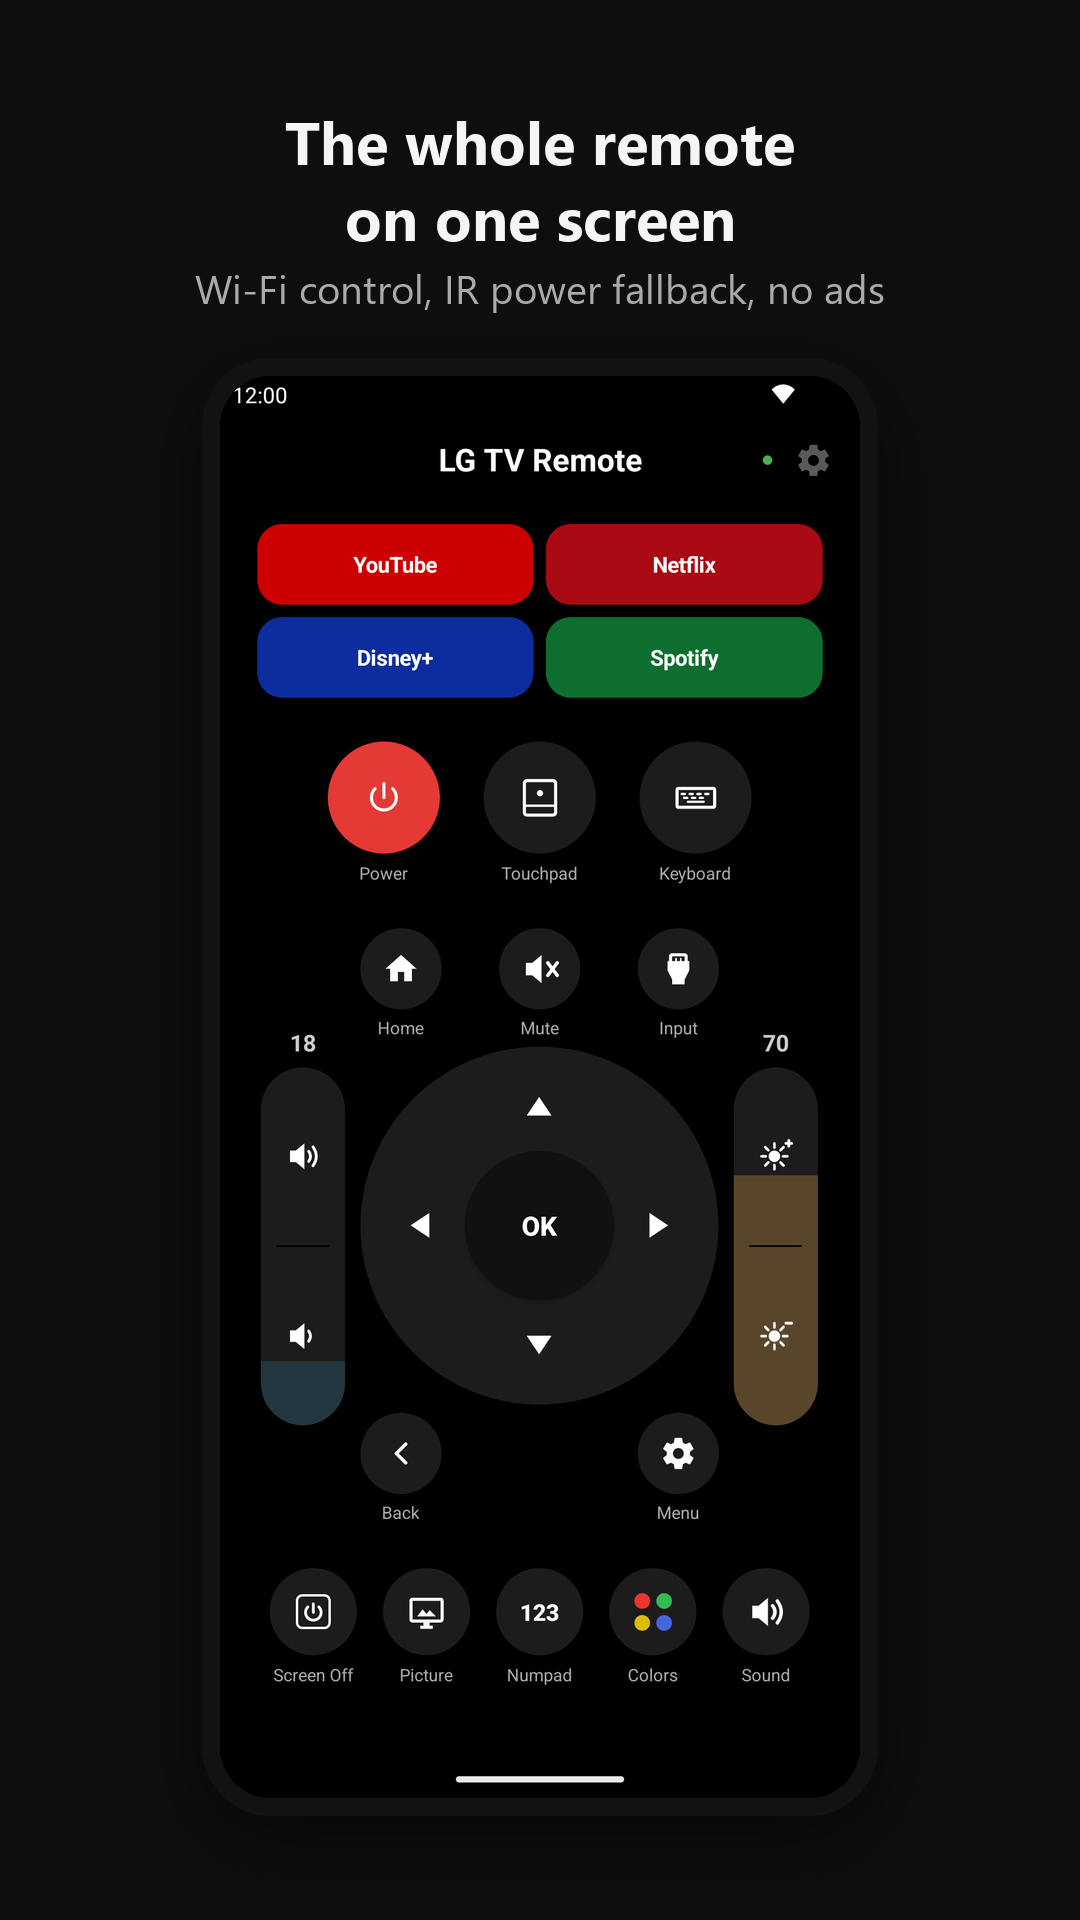
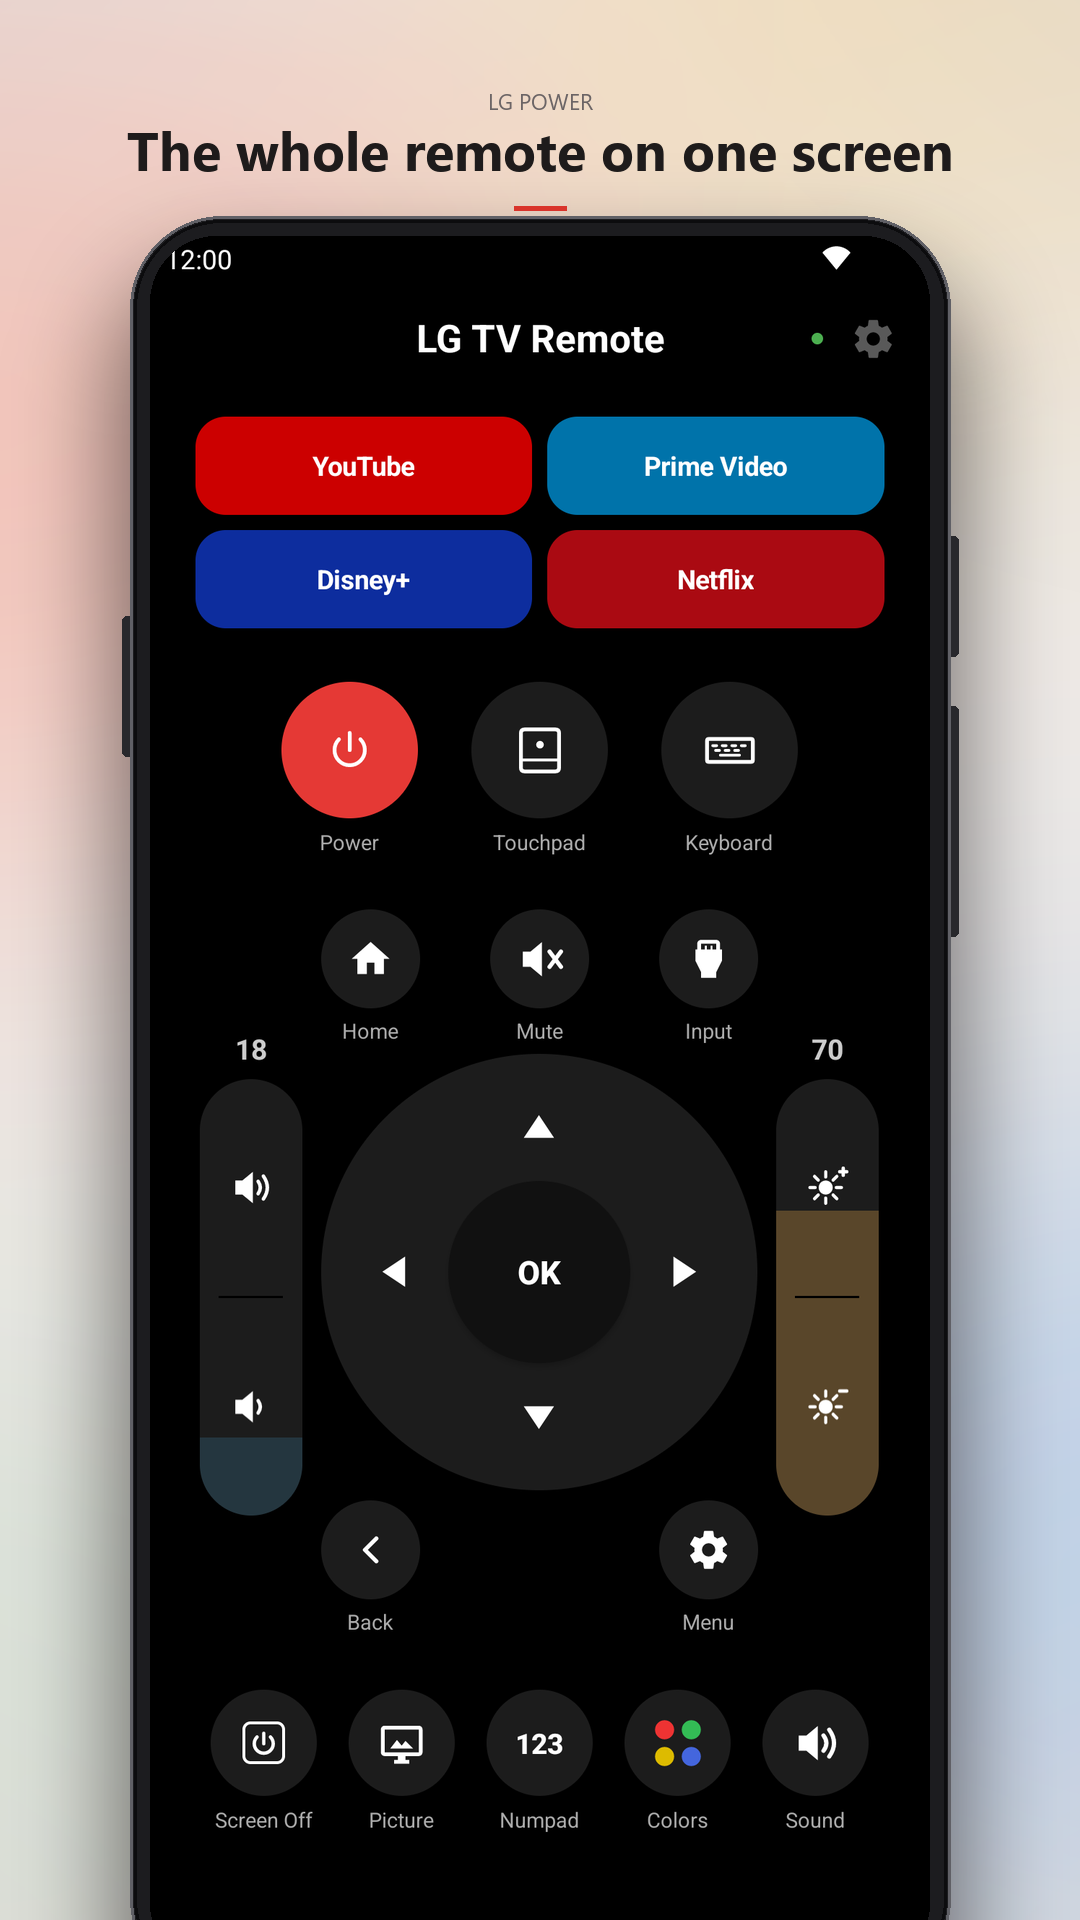
Play screenshots restyled to match the tour video
Pastel background, graphite bezel, one phone per frame, real shortcut
icons and the dark keyboard. _frame.py reuses the background and bezel
from tools/faketv/produce.py so the two stay in sync.

diff --git a/store/screenshots/_frame.py b/store/screenshots/_frame.py
@@ -1,93 +1,53 @@
-"""Compose raw 1080x2400 emulator captures into 1080x1920 Play screenshots.
+"""Compose raw 1080x2400 captures into 1080x1920 Play screenshots in the video's look:
+pastel background, graphite bezel, one big phone, caption with an accent underline.
 
-Usage: python frame.py <raw_dir> <out_dir>
-Reads <raw_dir>/captions.json: list of {out, images:[raw names], caption, sub, bg, fg}.
+Usage: python frame_v2.py <raw_dir> <out_dir>   (reads <raw_dir>/captions.json: [{out, image, caption, sub}])
 """
-import json, sys, os
-from PIL import Image, ImageDraw, ImageFont, ImageFilter
+import importlib.util, json, os, sys
+from PIL import Image, ImageDraw, ImageFont
 
-W, H = 1080, 1920
-FONT = r"C:\Windows\Fonts\segoeuib.ttf"
-FONT_SUB = r"C:\Windows\Fonts\segoeui.ttf"
-
-
-def rounded(img, radius):
-    mask = Image.new("L", img.size, 0)
-    ImageDraw.Draw(mask).rounded_rectangle([0, 0, img.size[0] - 1, img.size[1] - 1], radius, fill=255)
-    out = img.convert("RGBA")
-    out.putalpha(mask)
-    return out
+SC = os.path.dirname(os.path.abspath(__file__))
+ARGS = sys.argv[1:]
+spec = importlib.util.spec_from_file_location("produce", os.path.join(SC, "produce.py"))
+sys.argv = ["produce.py", os.path.join(SC, "tour_raw.mp4")]
+produce = importlib.util.module_from_spec(spec); spec.loader.exec_module(produce)
+W, H, PW, PH, PX, PY = produce.W, produce.H, produce.PW, produce.PH, produce.PX, produce.PY
+INK, MUTED, RED = (30, 27, 27), (107, 100, 101), (217, 52, 43)
 
 
-def phone(raw, target_w, radius=64, bezel_pad=22):
-    scale = target_w / raw.width
-    ph = int(raw.height * scale)
-    scr = raw.resize((target_w, ph), Image.LANCZOS)
-    bz = Image.new("RGBA", (target_w + 2 * bezel_pad, ph + 2 * bezel_pad), (0, 0, 0, 0))
-    ImageDraw.Draw(bz).rounded_rectangle([0, 0, bz.width - 1, bz.height - 1], radius + bezel_pad, fill=(18, 18, 20, 255))
-    scr = rounded(scr, radius)
-    bz.paste(scr, (bezel_pad, bezel_pad), scr)
-    return bz
+def font(bold, size):
+    return ImageFont.truetype(r"C:\Windows\Fonts\segoeuib.ttf" if bold else r"C:\Windows\Fonts\segoeui.ttf", size)
 
 
-def paste_with_shadow(canvas, im, x, y):
-    shadow = Image.new("RGBA", (im.width + 160, im.height + 160), (0, 0, 0, 0))
-    ImageDraw.Draw(shadow).rounded_rectangle([80, 100, 80 + im.width, 100 + im.height], 80, fill=(0, 0, 0, 120))
-    shadow = shadow.filter(ImageFilter.GaussianBlur(30))
-    canvas.paste(shadow, (x - 80, y - 80), shadow)
-    canvas.paste(im, (x, y), im)
+def build_static():
+    bg = os.path.join(SC, "prod_bg.png"); bz = os.path.join(SC, "prod_bezel.png"); mk = os.path.join(SC, "prod_mask.png")
+    produce.background(bg); produce.bezel(bz); produce.screen_mask(mk)
+    big = Image.open(bg).convert("RGB")
+    ox, oy = (produce.BW - W) // 2, (produce.BH - H) // 2
+    base = big.crop((ox, oy, ox + W, oy + H))
+    return base, Image.open(bz).convert("RGBA"), Image.open(mk).convert("L")
 
 
-def frame(spec, raw_dir, out_path):
-    bg, fg = tuple(spec["bg"]), tuple(spec["fg"])
-    canvas = Image.new("RGB", (W, H), bg)
+def frame(raw_path, caption, sub, out_path, base, bezel, mask, shift=0):
+    canvas = base.copy()
+    canvas.paste(bezel, (0, 0), bezel)
+    scr = Image.open(raw_path).convert("RGB").resize((PW, PH), Image.LANCZOS)
+    canvas.paste(scr, (PX, PY), mask)
     d = ImageDraw.Draw(canvas)
-    f1 = ImageFont.truetype(FONT, 60)
-    f2 = ImageFont.truetype(FONT_SUB, 40)
-    y = 100
-    for line in spec["caption"].split("\n"):
-        w = d.textlength(line, font=f1)
-        d.text(((W - w) / 2, y), line, font=f1, fill=fg)
-        y += 76
-    sub = spec.get("sub", "")
-    if sub:
-        w = d.textlength(sub, font=f2)
-        muted = tuple(int(c * 0.7 + (255 - c) * 0.0) if sum(bg) < 300 else int(c + (128 - c) * 0.5) for c in fg)
-        d.text(((W - w) / 2, y + 8), sub, font=f2, fill=muted)
-        y += 56
-    top = y + 50
-    raws = [Image.open(os.path.join(raw_dir, n + ".png")).convert("RGB") for n in spec["images"]]
-    if len(raws) == 1:
-        ph = phone(raws[0], 640, radius=50, bezel_pad=18)
-        paste_with_shadow(canvas, ph, (W - ph.width) // 2, top)
-    elif spec.get("layout") == "row":
-        # three phones side by side, no overlap, for screens whose content sits low
-        phones = [phone(r, 344, radius=32, bezel_pad=10) for r in raws]
-        gap = (W - sum(p.width for p in phones)) // 4
-        x = gap
-        ptop = top + max(0, (H - top - phones[0].height) // 2 - 60)
-        for p in phones:
-            paste_with_shadow(canvas, p, x, ptop)
-            x += p.width + gap
-    else:
-        # fan of three: middle one in front, sides tucked behind and lower
-        mid = phone(raws[1], 560, radius=44, bezel_pad=16)
-        side_l = phone(raws[0], 500, radius=40, bezel_pad=14)
-        side_r = phone(raws[2], 500, radius=40, bezel_pad=14)
-        paste_with_shadow(canvas, side_l, 20, top + 90)
-        paste_with_shadow(canvas, side_r, W - 20 - side_r.width, top + 90)
-        paste_with_shadow(canvas, mid, (W - mid.width) // 2, top)
+    f1, f0 = font(True, 54), font(False, 22)
+    w = d.textlength("LG POWER", font=f0); d.text(((W - w) / 2, 86), "LG POWER", font=f0, fill=MUTED)
+    w = d.textlength(caption, font=f1); d.text(((W - w) / 2, 112), caption, font=f1, fill=INK)
+    d.rectangle([(W - 52) / 2, 206, (W + 52) / 2, 210], fill=RED)
     canvas.save(out_path, optimize=True)
 
 
 def main(raw_dir, out_dir):
     os.makedirs(out_dir, exist_ok=True)
-    specs = json.load(open(os.path.join(raw_dir, "captions.json"), encoding="utf8"))
-    for spec in specs:
-        out = os.path.join(out_dir, spec["out"] + ".png")
-        frame(spec, raw_dir, out)
-        print("framed", spec["out"])
+    base, bezel, mask = build_static()
+    for spec_ in json.load(open(os.path.join(raw_dir, "captions.json"), encoding="utf8")):
+        frame(os.path.join(raw_dir, spec_["image"] + ".png"), spec_["caption"], spec_.get("sub", ""), os.path.join(out_dir, spec_["out"] + ".png"), base, bezel, mask)
+        print("framed", spec_["out"])
 
 
 if __name__ == "__main__":
-    main(sys.argv[1], sys.argv[2])
+    main(ARGS[0], ARGS[1])

diff --git a/store/listing-v2.md b/store/listing-v2.md
@@ -62,21 +62,20 @@ LG Power collects no data and has no servers. Your TV's address, MAC and pairing
 
 LG Power is an independent, unofficial app. It is not affiliated with, endorsed by or sponsored by LG Electronics. LG, webOS and Magic Remote are trademarks of LG Electronics. All other product names, logos and brands are property of their respective owners and are used for identification only.
 
-## Screenshots (8, 1080x1920 framed, caption on top)
+## Screenshots (8, 1080x1920, same look as the video)
 
-Final order, matching store/screenshots/:
-1. 01_remote: main remote, Dark, four shortcuts. "The whole remote on one screen"
-2. 02_keyboard: keyboard sheet with text. "Type into TV search with your keyboard"
-3. 03_touchpad: touchpad locked. "Hold Touchpad to lock a full-screen pad"
-4. 04_pickers: three phones in a row, input / picture / sound. "Input, picture and sound pickers"
-5. 05_numpad: numpad. "Channel numbers, guide, info and subtitles"
-6. 06_widgets: launcher home screen with the Power, Screen Off and OK widgets. "Widgets for Power, Screen Off and OK"
-7. 07_themes: three-phone fan, Monokai / Light / Nord. "Light, dark and six more themes"
-8. 08_service: service remote with the part-number footer and password row masked out. "Service remote over IR"
+Pastel background, graphite phone, one phone per frame, caption with a red underline. All captured with the real shortcut icons and the dark keyboard. Composer: store/screenshots/_frame.py (imports tools/faketv/produce.py for the background and bezel), captions in _captions.json.
 
-Spare: 09_colors_SPARE (colour row open), near-duplicate of the hero shot. Swap it in for 08 if the service remote feels too edgy for the listing.
+1. 01_remote: main remote, Dark. "The whole remote on one screen"
+2. 02_keyboard: keyboard sheet, dark Gboard. "Type into TV search"
+3. 03_touchpad: touchpad locked. "Hold Touchpad to lock a cursor pad"
+4. 04_pickers: picture mode picker. "Picture, sound and input pickers"
+5. 05_numpad: numpad. "Numpad, guide, info and subtitles"
+6. 06_widgets: launcher with the Power, Screen Off and OK widgets. "Widgets for Power, Screen Off and OK"
+7. 07_themes: main remote, Light. "Light, dark and six more themes"
+8. 08_service: service remote, part number and password masked. "Service remote over IR"
 
-Known compromise: shortcut pills on the main screen carry app colours taken from the TV's own icons (YouTube red, Netflix red, Disney+ blue, Spotify green). That is the real UI, and the broadened disclaimer covers it.
+Earlier sets are in old_v1 to old_v3 (gitignored).
 
 ## Release notes for the live 1.30.0 build (500 chars max)
 
